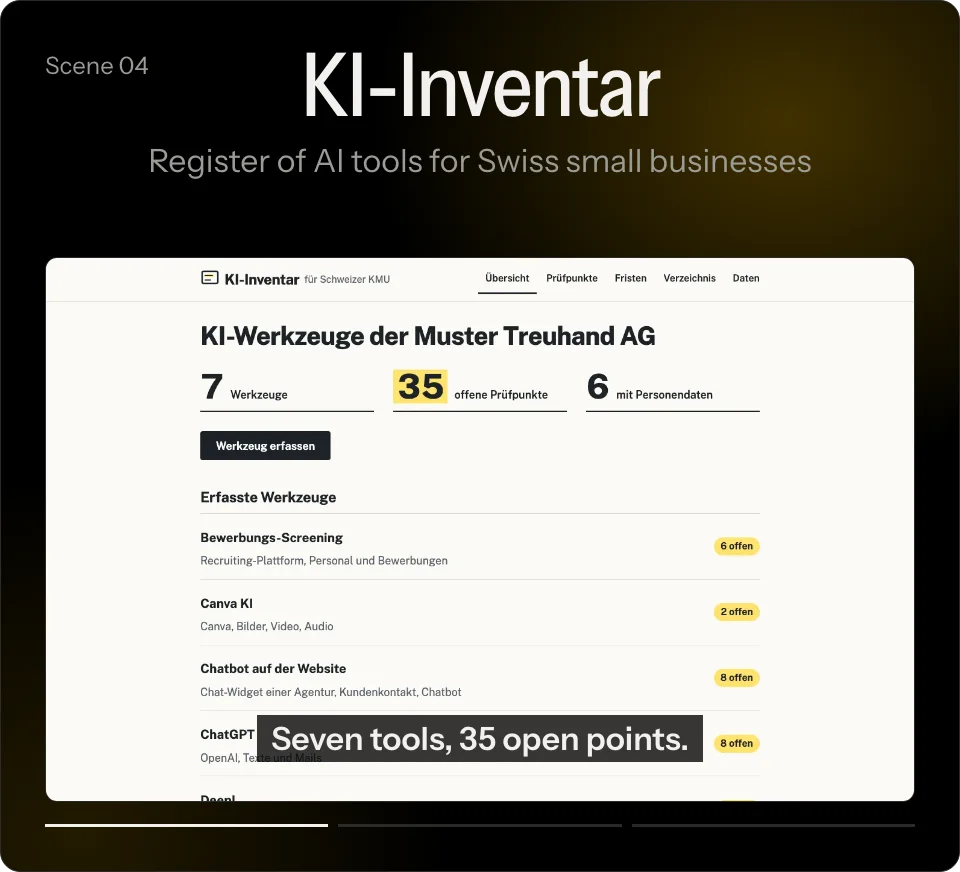
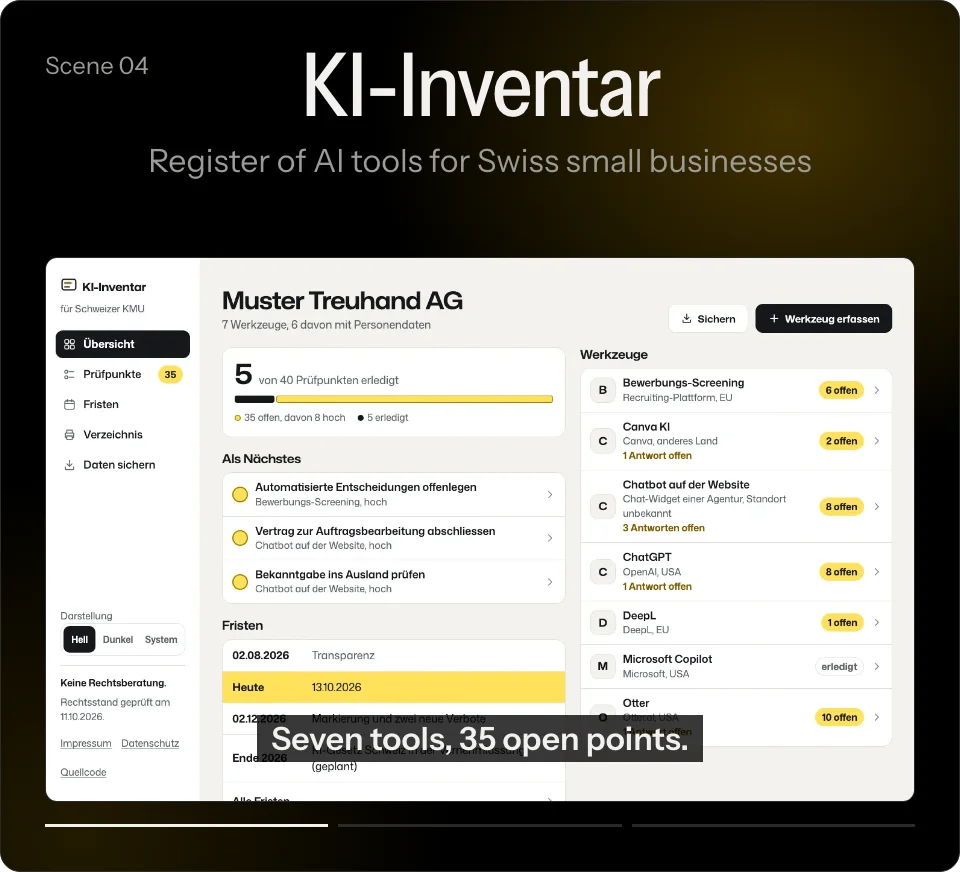
Link KI-Inventar to its own address and show version 1.0

diff --git a/README.md b/README.md
@@ -54,13 +54,13 @@ Vaccinations, deworming, tick protection and vet visits with due dates, reminder
 </td>
 <td width="50%" valign="top">
 
-<a href="https://adambaranyi.github.io/ki-inventar/"><picture><source media="(prefers-color-scheme: dark)" srcset="https://raw.githubusercontent.com/AdamBaranyi/AdamBaranyi/main/assets/card-ki-inventar-dark.webp"><img src="https://raw.githubusercontent.com/AdamBaranyi/AdamBaranyi/main/assets/card-ki-inventar-light.webp" width="100%" alt="Scene 04, KI-Inventar – register of AI tools for Swiss small businesses. Screenshot: seven tools of an invented company with 35 open checkpoints; subtitle «Seven tools, 35 open points.»"></picture></a>
+<a href="https://ki-inventar.adambaranyi.xyz/"><picture><source media="(prefers-color-scheme: dark)" srcset="https://raw.githubusercontent.com/AdamBaranyi/AdamBaranyi/main/assets/card-ki-inventar-dark.webp"><img src="https://raw.githubusercontent.com/AdamBaranyi/AdamBaranyi/main/assets/card-ki-inventar-light.webp" width="100%" alt="Scene 04, KI-Inventar – register of AI tools for Swiss small businesses. Screenshot: the overview of an invented company, 5 of 40 checkpoints done, seven tools with their open points; subtitle «Seven tools, 35 open points.»"></picture></a>
 
-A free register of the AI tools a company uses: every tool is recorded with ten questions, and from the answers come checkpoints with a reason and the legal reference under the Swiss Data Protection Act and the EU AI Act. Everything stays in the browser: no account, no server, nothing sent. Not legal advice; the app is in German.
+A free register of the AI tools a company uses: every tool is recorded with ten questions, with suggested answers for ChatGPT, Copilot, Claude, Gemini and DeepL. From the answers come checkpoints with a reason and the legal reference under the Swiss Data Protection Act and the EU AI Act, a draft record of processing and dates for the yearly review. Everything stays in the browser: no account, no server, nothing sent. Not legal advice; the app is in German.
 
 `Angular` `TypeScript` `Zod` `Vitest` `Playwright`
 
-[Live demo](https://adambaranyi.github.io/ki-inventar/) · [Code on GitHub](https://github.com/AdamBaranyi/ki-inventar)
+[Live demo](https://ki-inventar.adambaranyi.xyz/) · [Code on GitHub](https://github.com/AdamBaranyi/ki-inventar)
 
 </td>
 </tr>
